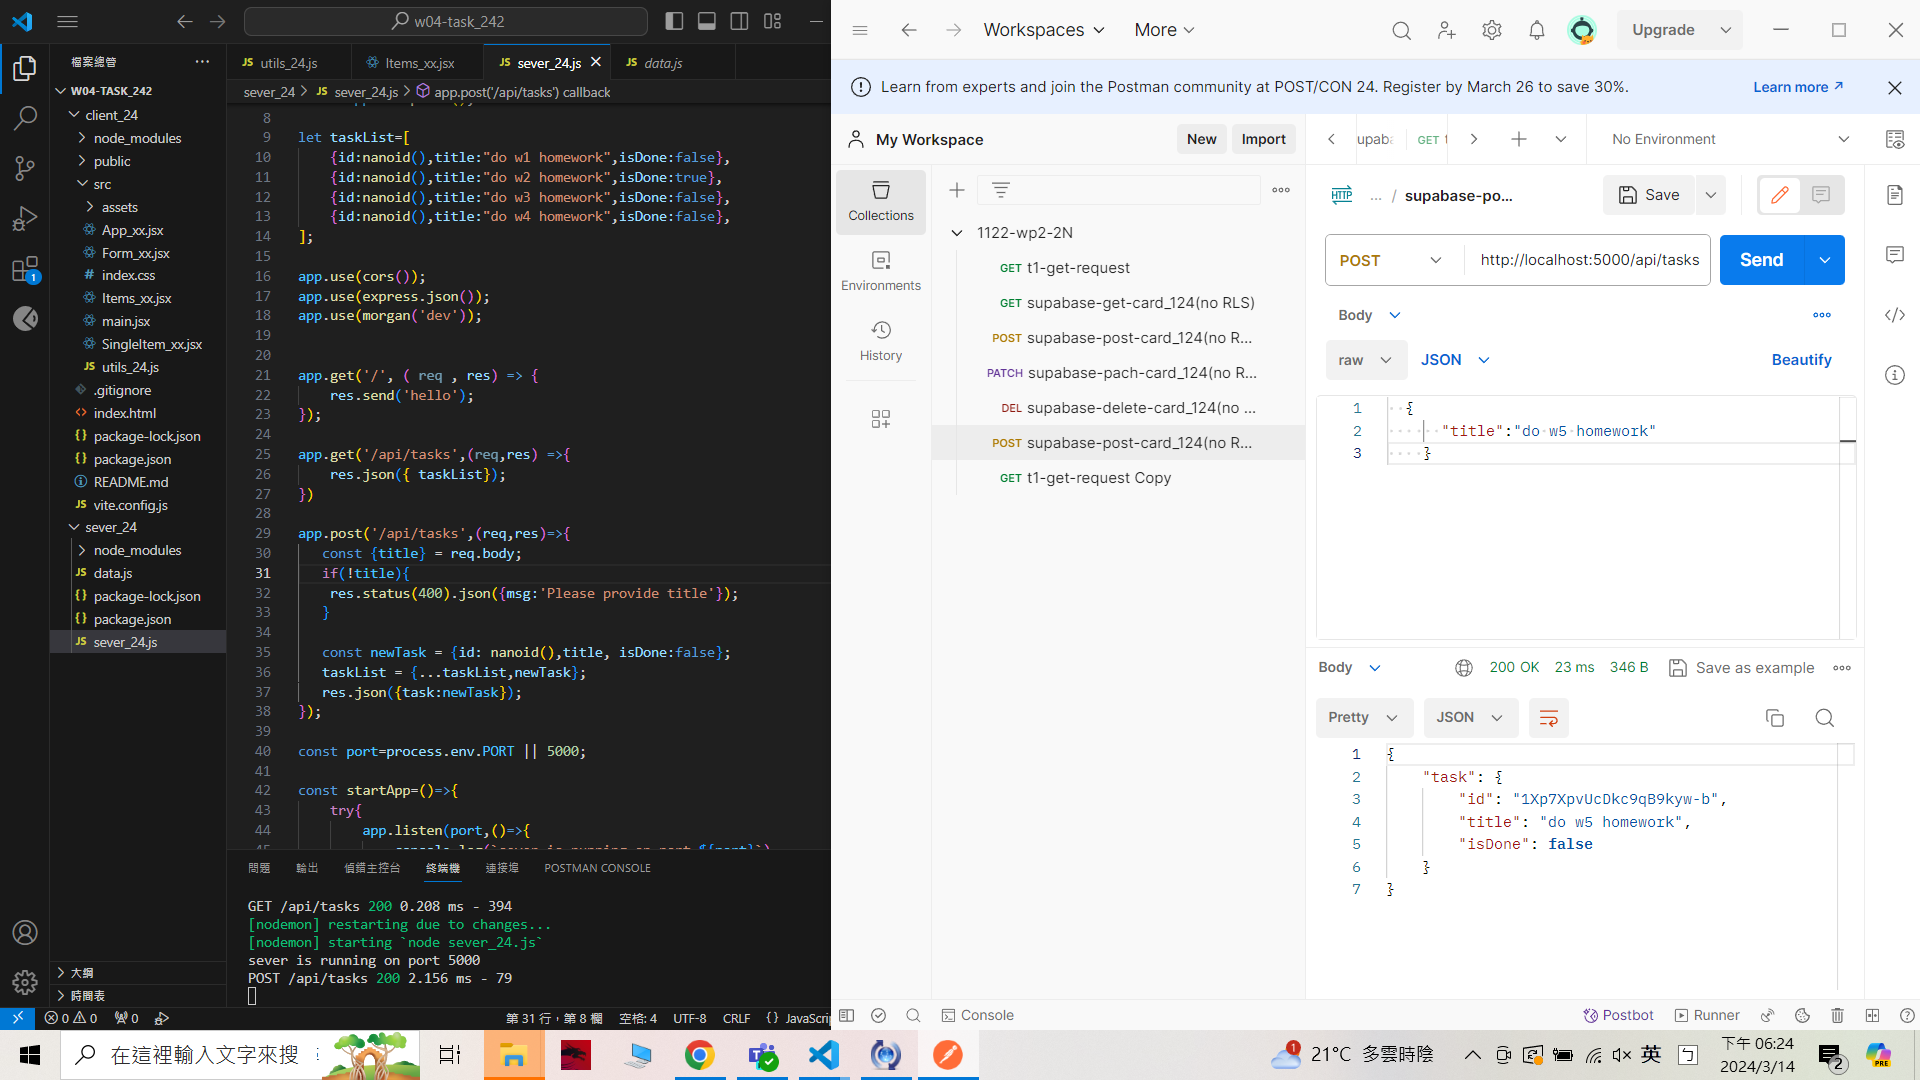
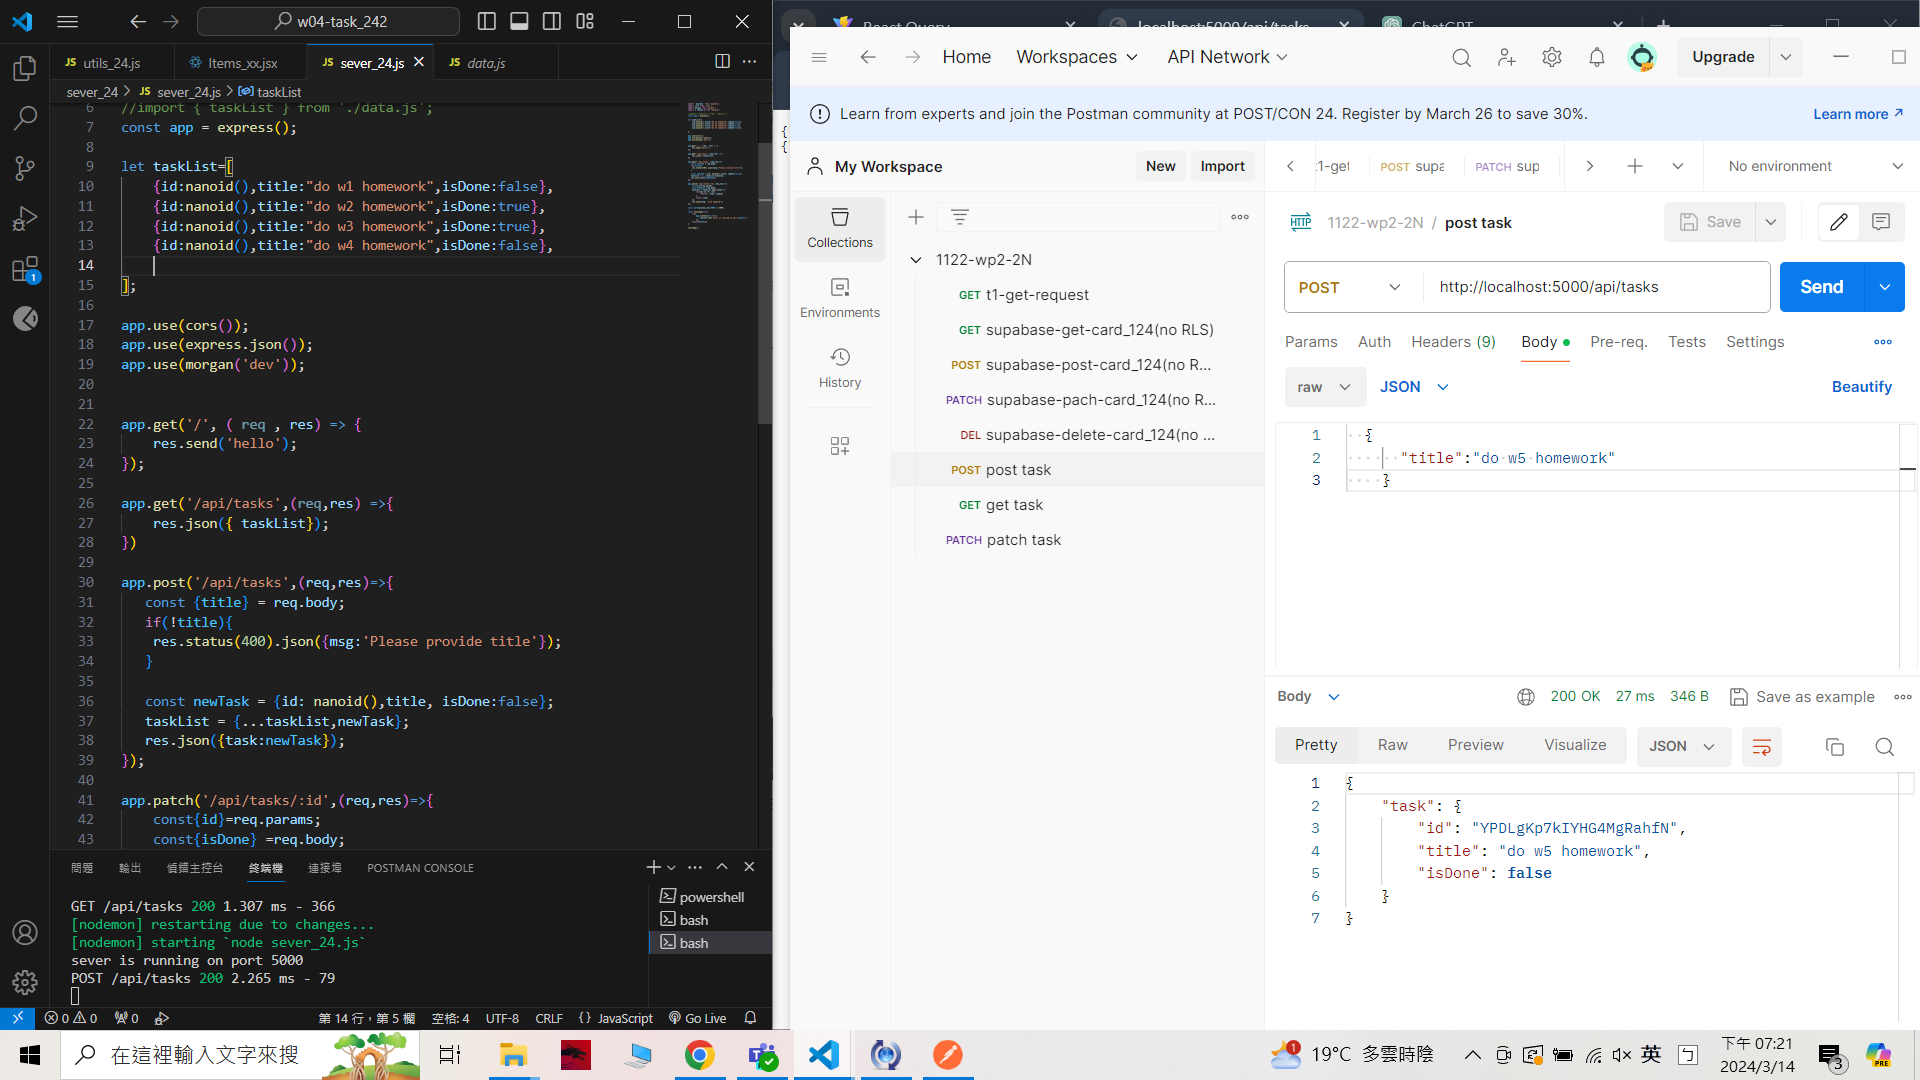
W4-P3: Server: implement PATCH /api/tasks/:id

diff --git a/demo/md/w04/w04.md b/demo/md/w04/w04.md
@@ -9,3 +9,15 @@ git log --pretty=format:"%h%x09%an%x09%ad%x09%s" --after="2024-03-13"
 ```
 a9791da unknown Thu Mar 14 15:44:09 2024 +0800  W4-P1: Server: implement GET /api/tasks
 ```
+
+### W4-P2: Server: implement POST /api/tasks
+ 
+![](w4-p2.png)
+
+```
+602f9cb unknown Thu Mar 14 18:26:34 2024 +0800  W4-P2: Server: implement POST /api/tasks
+```
+
+### W4-P3: Server: implement PATCH /api/tasks/:id
+ 
+![](w4-p3.png)
